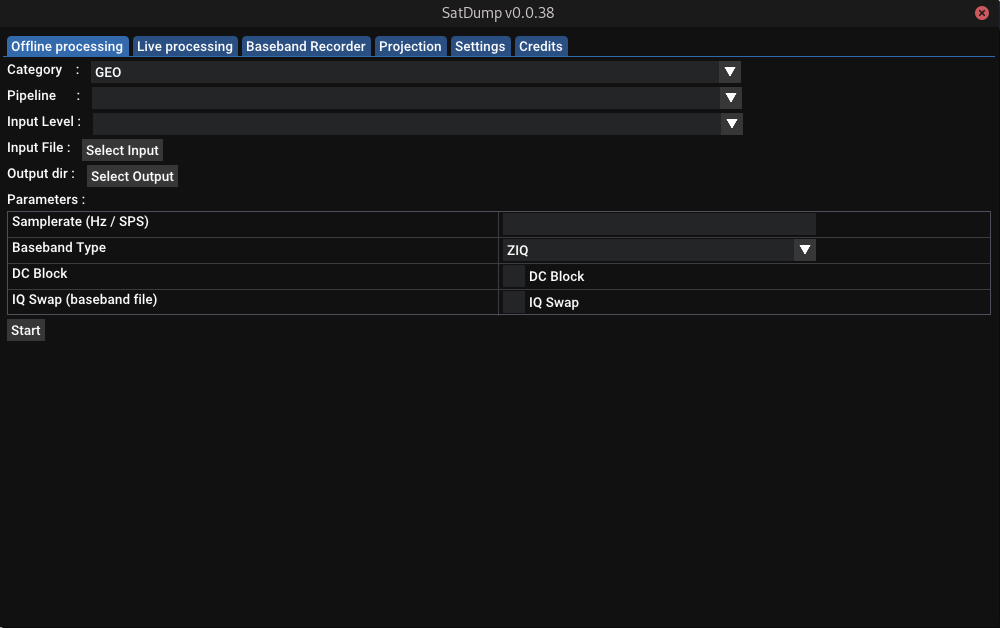
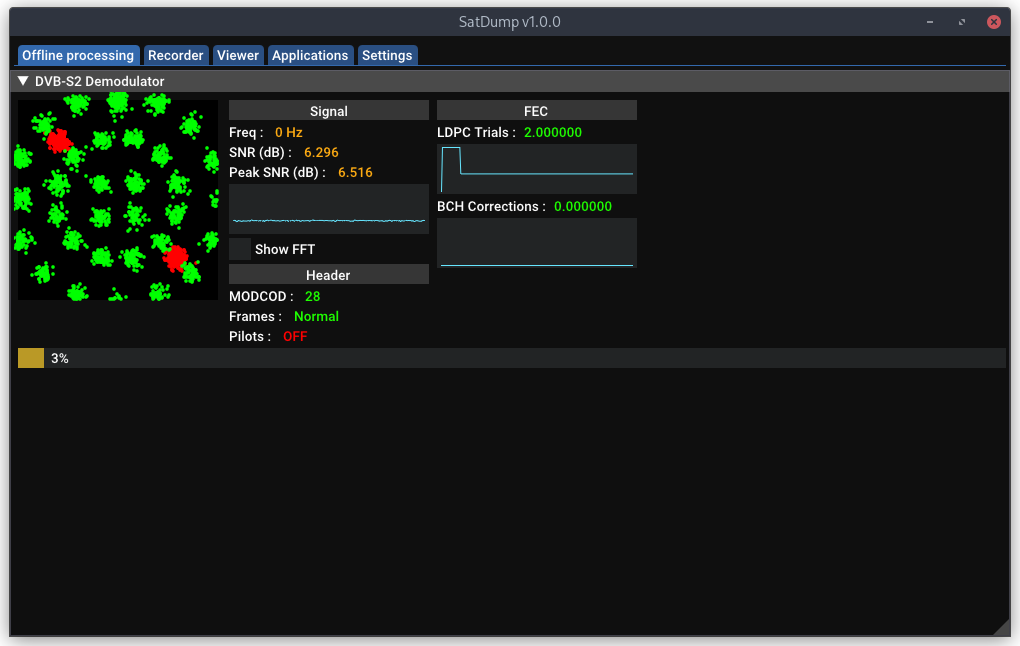
Update README

Changed region(s): [[0.0, 0.0, 1.0, 1.0], [0.434, 0.3025, 0.62, 0.3328], [0.775, 0.3631, 0.837, 0.4236]]

diff --git a/README.md b/README.md
@@ -1,84 +1,79 @@
 # SatDump
 
-A generic satellite data processing software.  
+![Icon](https://github.com/altillimity/satdump/raw/master/icon.png)
+
+A generic satellite data processing software.
 *Thanks Mnux for the icon!*
 
-**Still WIP**
+# Introduction
 
-# Usage
+*Note : This is a very basic "how-to" skipping details and assuming some knowledge of what you are doing. For more details and advanced usecases, please see the detailed documention.* 
 
-First of all, as with any program using volk, running volk_profile once is highly recommended for better performances.
+## GUI Version
 
-SatDump comes in 2 variants, doing essentially the same thing :
-- A GUI version, meant to be user-friendly
-![The UI](https://github.com/altillimity/satdump/raw/master/gui_example2.png)
-- A CLI version for command-line / headless processing
-![The CLI](https://github.com/altillimity/satdump/raw/master/cli_example.png)
+### Offline processing (recorded data)
 
-Otherwise, here's roughly how SatDump works :
-- You record / get some data, often baseband from some supported satellite
-- You start SatDump (UI for an user interface), select the pipeline and input format & folder
-- You start processing, and SatDump will do everything required to get down to useful data
+![Img](gui_example.png)
 
-Supported baseband formats are :
-- i16 - Signed 16-bits integer
-- i8 - Signed 8-bits integer
-- f32 - Raw complex 32-bits float
-- w8 - 8-bits wav, for compatibility with files from SDR#, HDSDR and others   
-- ZIQ - Signed 16 or 8-bits integer or 32-bit float (autodetected) compressed with zst (optional)
-Of course, selecting the wrong format will result in nothing, or very little working...
+Quick-Start :
+- Chose the appropriate pipeline for what you want to process
+- Select the input file (baseband, frames, soft symbols...)
+- Set the appropriate input level (what your file is)
+- Check settings shown below are right (such as samplerate)
+- Press "Start"!
 
-As for other formats often used throughought the program :
-- .soft  : 8-bits soft demodulated symbols
-- .cadu  : CCSDS (or similar) transport frames, deframed, derandomized and corrected
-- .frm   : Other frame formats
-- .raw16 : NOAA HRPT Frame format, compatible with HRPT Reader
+![Img](gui_example2.png)  
+*SatDump demodulating a DVB-S2 Baseband*
 
-SatDump also support batch, or command-line processing with a common syntax :
-The UI version can also take the same commands to bypass the UI.
+### Live processing or recording (directly from your SDR)
+
+Quick-Start :
+- Go in the "Recorder" Tabs
+- Select and start your SDR Devices
+- Chose a pipeline
+- Start it, and done!
+- For recording, use the recording tab instead. Both processing and recording can be used at once.
+
+![Img](gui_recording.png)  
+
+## CLI Version
+
+![Img](cli_example.png)  
+
+### Offline processing
+
 ```
-satdump pipeline input_format path/to/input/file.something products output_folder [-baseband_format...]
-
-# Example for Falcon 9 data
-satdump falcon9_tlm baseband falcon9-felix.wav products falcon9_data -samplerate 6000000 -baseband_format i16
-
-# Example for MetOp AHRPT data
-satdump metop_ahrpt baseband metopb.wav products metopb_ahrpt -samplerate 6000000 -baseband_format i16
+Usage : satdump [pipeline_id] [input_level] [input_file] [output_file_or_directory] [additional options as required]
+Extra options (examples. Any parameter used in modules can be used here) :
+  --samplerate [baseband_samplerate] --baseband_format [f32/s16/s8/u8] --dc_block --iq_swap
+Sample command :
+satdump metop_ahrpt baseband /home/user/metop_baseband.s16 metop_output_directory --samplerate 6e6 --baseband_format s16
 ```
 
-Live processing is now supported (but WIP) on all platforms. You will have to enable it manually when building from source with -DBUILD_LIVE=ON.   
-Supported devices currently include :   
-- HackRF Devices
-- Airspy One Devices (Mini, R2 with some temporary caveats)
-- RTL-SDR Devices
-- RTL-TCP
-- SpyServer
-- SDRPlay
+### Live processing
 
-### Satdump Baseband Recorder
-
-Satdump now also has baseband recorder built in.
-Ofcourse supports all SDRs listed above and can record in all supported baseband formats aswell as compressed ZIQ format.
-
-- ziq8 - ZST compressed 8-bits integer.
-- ziq16 - ZST compressed 16-bits integer.
-- ziq32 - ZST compressed 32-bits float.
-
-This functionality is most helpful for high bandwidth or long duration recording aswell as recording to a slow storage device that otherwise would not manage to write so much raw baseband data.
-With a very simple FFT spectrum analyzer and waterfall it has very low requirements on CPU. 
-Its meant mainly for high bandwidth (40MSPS and more) but ofcourse works no problem even on lowest samplerates.
-
-CLI version of the recorder `satdump_recorder` needs a .json config file for SDR settings.
-Example SDR settings .json config.
 ```
-{
-    "sdr_type": "airspy",
-    "sdr_settings": {
-        "gain": "21",
-        "bias": "0"
-    }
-}
+Usage : satdump live [pipeline_id] [output_file_or_directory] [additional options as required]
+Extra options (examples. Any parameter used in modules or sources can be used here) :
+  --samplerate [baseband_samplerate] --baseband_format [f32/i16/i8/w8] --dc_block --iq_swap
+  --source [airspy/rtlsdr/etc] --gain 20 --bias
+As well as --timeout in seconds
+Sample command :
+satdump live metop_ahrpt metop_output_directory --source airspy --samplerate 6e6 --frequency 1701.3e6 --general_gain 18 --bias --timeout 780
+```
 
+You can find a list of all SDR Options [INSERT].
+
+### Recording
+
+```
+Usage : satdump record [output_baseband (without extension!)] [additional options as required]
+Extra options (examples. Any parameter used in sources can be used here) :
+  --samplerate [baseband_samplerate] --baseband_format [f32/i16/i8/w8] --dc_block --iq_swap
+  --source [airspy/rtlsdr/etc] --gain 20 --bias
+As well as --timeout in seconds
+Sample command :
+satdump record baseband_name --source airspy --samplerate 6e6 --frequency 1701.3e6 --general_gain 18 --bias --timeout 780
 ```
 
 # Building / Installing
@@ -86,38 +81,16 @@ Example SDR settings .json config.
 ### Windows
 
 On Windows the recommend method of running SatDump is getting the latest pre-built release off the [Release](https://github.com/altillimity/SatDump/releases) page, which includes everything you will need to run it.  
-Those builds are made with Visual Studio 2019 for x64, so the appropriate Visual C++ Runtime will be required. You can get it [here](https://support.microsoft.com/en-us/topic/the-latest-supported-visual-c-downloads-2647da03-1eea-4433-9aff-95f26a218cc0).   
+Those builds are made with Visual Studio 2019 for x64, so the appropriate Visual C++ Runtime will be required (though, likely to be already installed). You can get it [here](https://support.microsoft.com/en-us/topic/the-latest-supported-visual-c-downloads-2647da03-1eea-4433-9aff-95f26a218cc0).   
 
 From there, just run either satdump-ui.exe or satdump.exe (CLI) and everything will work.
 
-If you really want to build it yourself on Windows, you will need some version of the [MSVC compiler](https://visualstudio.microsoft.com/downloads/) (with C++ 17), [CMake](https://cmake.org/download/) and [Git](https://gitforwindows.org/).  
-Some knowledge of using VCPKG and building with CMake is assumed.
-
-As dependencies that are not included in [VCPKG](https://github.com/Microsoft/vcpkg), you will need to build [VOLK](https://github.com/gnuradio/volk). Otherwise, you will also need libpng, libjpeg, libfftw3 and fmt for the core, and additionally glew and glfw3 for the UI version.
-
-VCPK is expected to be in the root of SatDump's git directory in the build system. 
-
-```
-git clone https://github.com/altillimity/satdump.git
-cd satdump
-git clone https://github.com/Microsoft/vcpkg.git
-cd vcpkg
-./bootstrap-vcpkg.bat
-.\vcpkg.exe install libpng:x64-windows libjpeg-turbo:x64-windows fftw3:x64-windows glew:x64-windows glfw3:x64-windows # Gotta check those are correct... Should be
-# At this point, I copied over the files from libraries compiled from source in vcpkg/installed/x64-windows
-cd ..
-mkdir build
-cd build
-cmake -G "Visual Studio 16 2019" -DBUILD_MSVC=ON -DCMAKE_TOOLCHAIN_FILE=../vcpk/scripts/buildsystems/vcpkg.cmake .. # Or whatever version you wanna use
-cmake --build . --config Release
-```
-
-Note : Mingw builds are NOT supported, VOLK will not work.
+If you really want to build it yourself on Windows, see the dedicated documentation [INSERT].  
+*Note : Mingw builds are NOT supported, VOLK will not work.*
 
 ### Linux (or MacOS)
 
 On Linux (or MacOS), building from source is recommended and no build are currently provided.
-[libcorrect](https://github.com/quiet/libcorrect) is now included in SatDump, hence it is not required to build it from source anymore.
 
 Here are some generic Debian build instructions.
 
@@ -126,8 +99,8 @@ Here are some generic Debian build instructions.
 sudo apt install git build-essential cmake g++ pkgconf libfftw3-dev libvolk2-dev libjpeg-dev libpng-dev # Core dependencies. If libvolk2-dev is not available, use libvolk1-dev
 sudo apt install libnng-dev                                                                             # If this packages is not found, follow build instructions below for NNG
 sudo apt install librtlsdr-dev libhackrf-dev libairspy-dev libairspyhf-dev                              # All libraries required for live processing (optional)
-sudo apt install libglew-dev libglfw3-dev   # Only if you want to build the GUI Version (optional)
-sudo apt install libzstd-dev                  # Only if you want to build with ZIQ Recording compression (optional)
+sudo apt install libglew-dev libglfw3-dev                                                               # Only if you want to build the GUI Version (optional)
+sudo apt install libzstd-dev                                                                            # Only if you want to build with ZIQ Recording compression (optional)
 
 # If libnng-dev is not available, you will have to build it from source
 git clone https://github.com/nanomsg/nng.git
@@ -167,9 +140,15 @@ mkdir build && cd build
 cmake -DCMAKE_BUILD_TYPE=Release ..                             # MacOS
 cmake -DCMAKE_BUILD_TYPE=Release -DCMAKE_INSTALL_PREFIX=/usr .. # Linux
 make -j4
-ln -s ../pipelines . # Symlink pipelines so it can run
-ln -s ../resources . # Symlink pipelines so it can run
-ln -s ../Ro* . # Symlink fonts for the GUI version so it can run
+
+# To run without installing
+ln -s ../pipelines .        # Symlink pipelines so it can run
+ln -s ../resources .        # Symlink resources so it can run
+ln -s ../satdump_cfg.json . # Symlink settings so it can run
+ln -s ../Ro* .              # Symlink fonts for the GUI version so it can run
+
+# To install system-wide
+sudo make install
 
 # Run (if you want!)
 ./satdump-ui
